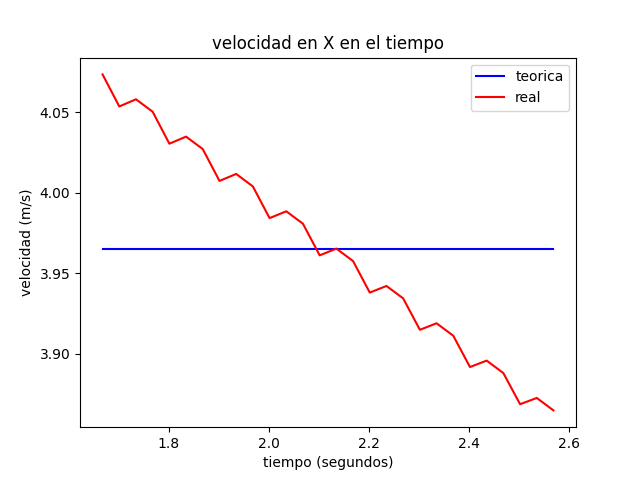
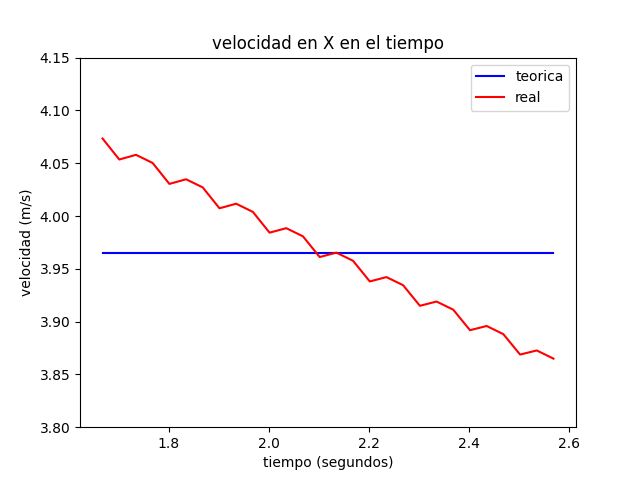
fix ancho graficos

diff --git a/src/basket-doble/pandas_procesing.py b/src/basket-doble/pandas_procesing.py
@@ -72,7 +72,8 @@ def calcular_aceleracion(tabla, columna):
     return aceleracion
 
 
-def graficar_velocidad_tiempo(tabla, coordenada, guardar_grafica=None, mostrar_grafica=None):
+def graficar_velocidad_tiempo(tabla, coordenada, guardar_grafica=None, mostrar_grafica=None,
+                              limy1=None, limy2=None):
     """
     Genera un gráfico de dispersión de velocidad contra tiempo para una coordenada dada.
 
@@ -101,6 +102,8 @@ def graficar_velocidad_tiempo(tabla, coordenada, guardar_grafica=None, mostrar_g
     # titulo
     plt.title('velocidad en '+coordenada+' en el tiempo')
 
+    if (limy1  and limy2):
+        plt.ylim(limy1, limy2)
     if guardar_grafica:
         plt.savefig(RUTA_CARPETA_IMAGENES + "velocidad_tiempo_" + coordenada + ".png")
     if mostrar_grafica:
@@ -387,7 +390,7 @@ def main():
     tabla_movimiento = generar_datos_movimiento_metros(tabla_movimiento)
     # graficos de la coordenada x
     graficar_posicion_tiempo(tabla_movimiento, "X", 1, MOSTRAR_GRAFICOS)
-    graficar_velocidad_tiempo(tabla_movimiento, "X", 1, MOSTRAR_GRAFICOS)
+    graficar_velocidad_tiempo(tabla_movimiento, "X", 1, MOSTRAR_GRAFICOS,3.8, 4.15)
     # graficos de la coordenada y
     graficar_posicion_tiempo(tabla_movimiento, "Y", 1, MOSTRAR_GRAFICOS)
     graficar_velocidad_tiempo(tabla_movimiento, "Y", 1, MOSTRAR_GRAFICOS)
